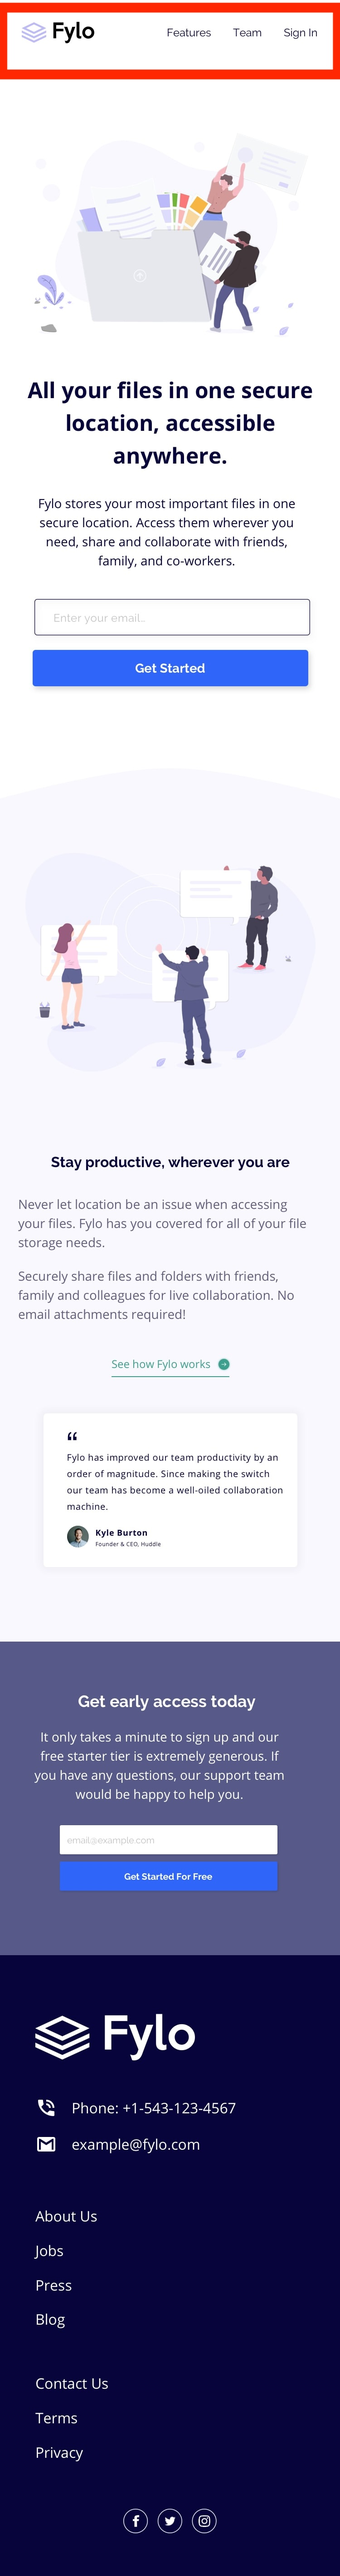
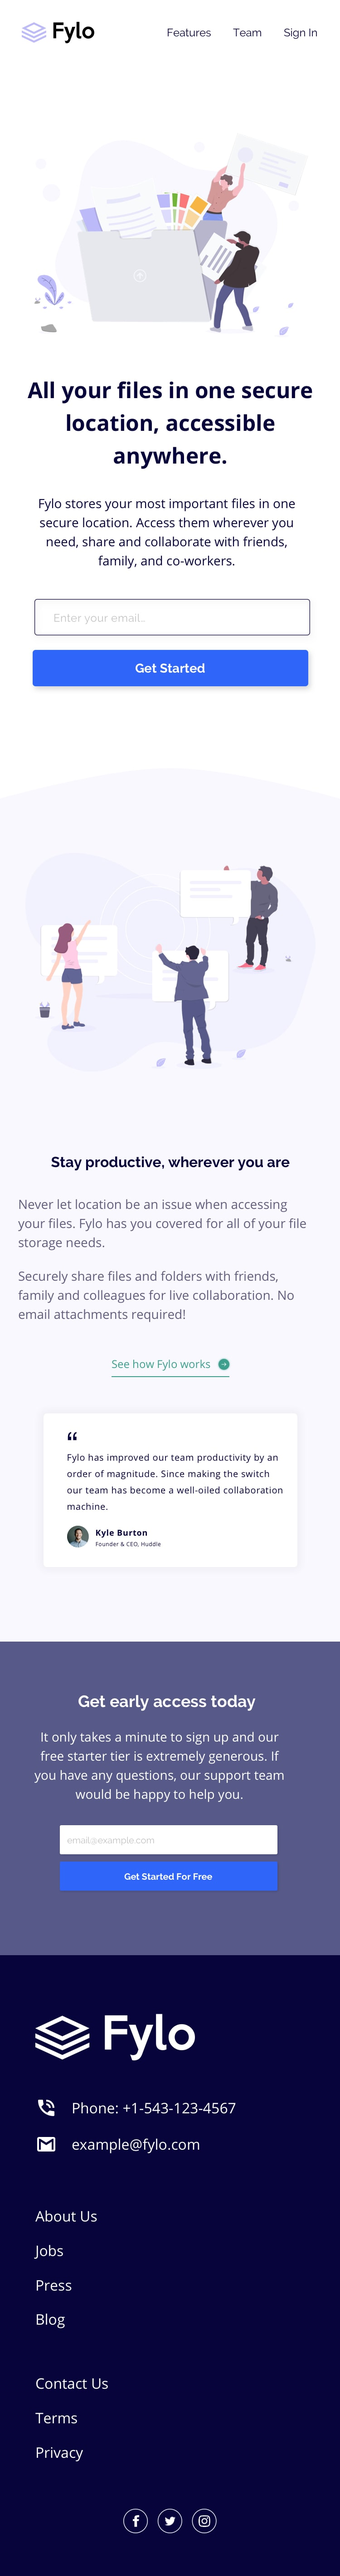
Fixed all the paddings. 90% perfect now.

Changed region(s): [[0.0, 0.0, 1.0, 0.0312]]

diff --git a/index.html b/index.html
@@ -6,10 +6,11 @@
 
   <link rel="icon" type="image/png" sizes="32x32" href="./images/favicon-32x32.png">
 
-  <link rel="stylesheet" href="style.css">
 
   <link rel="stylesheet" href="https://cdn.jsdelivr.net/npm/bootstrap@5.3.3/dist/css/bootstrap.min.css
   ">
+    <link rel="stylesheet" href="style.css">
+
 
   <!--Google fonts-->
   <link rel="preconnect" href="https://fonts.googleapis.com">
@@ -22,7 +23,7 @@
 <body>
 
 <!--Top menu-->
-<nav class="navbar navbar-expand bg-body-tertiary py-0">
+<nav class="navbar navbar-expand bg-body-tertiary py-5">
   <div class="container-fluid justify-content-between top-menu">
     <a class="navbar-brand col-3" href="#"><img src="./images/logo.svg" class="img-fluid"></a>
       <ul class="navbar-nav ms-auto mb-2 mb-lg-0">
@@ -42,12 +43,11 @@
 
 <main>
   <!--First image-->
-  <div class="container mt-5">
+  <div class="container my-5">
     <img src="./images/illustration-1.svg" class="img-fluid" alt="...">
   </div>
  
-
-  <!--For the first header-->
+  <!--First header: "All your files in one secure..."-->
   <section class="first-header">
     <div>All your files in one secure location, accessible anywhere.</div>
 
@@ -62,16 +62,16 @@
   <!--1st Get Started Form-->
   <form class="d-flex justify-content-center flex-wrap">
     <div class="mb-3 w-75">
-      <input type="email" class="form-control" id="exampleInputEmail1" aria-describedby="emailHelp" placeholder="Enter your email...">
+      <input type="email" class="form-control p-3 form-border" id="exampleInputEmail1" aria-describedby="emailHelp" placeholder="Enter your email...">
     </div>
 
-    <button type="submit" class="btn btn-primary px-5 w-75 mb-5">Get Started</button>
+    <button type="submit" class="btn btn-primary px-5 w-75 mb-5 p-2">Get Started</button>
   </form>
 
   <!--For the curved top background-->
   <section>
   <div class="container-fluid p-0">
-    <img src="./images/bg-curve-mobile.svg" class="img-fluid w-100" alt="...">
+    <img src="./images/bg-curve-mobile.svg" class="img-fluid w-100 mt-5" alt="...">
   </div>
   </section>
 
@@ -114,16 +114,16 @@
     </div>
   </section>
 
-  <!--Another second header but different color-->
+  <!--Second header: "Get early access today..."-->
   <section>
-    <div class="second-header background-color-purple font-color-white">
+    <div class="second-header background-color-purple font-color-white pt-5">
       Get early access today
     </div>
   </section>
 
-  <!--Another main text but different color.-->
+  <!--Main text: "It only takes a minute..."-->
   <section>
-    <div class="main-text background-color-purple font-color-white">
+    <div class="main-text background-color-purple font-color-white pt-3">
       It only takes a minute to sign up and our free starter tier is extremely generous. If you have any questions, our support team would be happy to help you.
       </div>
   </section>
@@ -134,27 +134,27 @@
       <input type="email" class="form-control" id="exampleInputEmail1" aria-describedby="emailHelp" placeholder="Enter your email...">
     </div>
 
+    <!--todo add another div for purple color to make the div bigger-->
     <button type="submit" class="btn btn-primary px-5 w-75 mb-5">Get Started For Free</button>
   </form>
 </main>
 
-<!--Logo at the footer section-->
-<section class="background-color-dark-blue">
-  <img src="./images/logo white.svg" class="img-fluid">
-</section>
 
 <!--Email and phone section-->
-<section>
+  <!--Logo at the footer section-->
+  <div class="background-color-dark-blue"><img src="./images/logo white.svg" class="img-fluid background-color-dark-blue mt-5 ms-5"></div>
+
+  <!--Phone section-->
   <div class="d-flex flex-row mb-0 main-text font-color-white background-color-dark-blue pb-0">
-    <div class="phone-icon"><img src="./images/icon-phone.svg"></div>
+    <div class="phone-icon pe-4"><img src="./images/icon-phone.svg"></div>
     <div>+1-543-123-4567</div>
   </div>
 
+  <!--Email section-->
   <div class="d-flex flex-row mb-0 main-text font-color-white background-color-dark-blue pb-0">
-    <div><img src="./images/icon-email.svg"></div>
+    <div class="email-icon pe-4"><img src="./images/icon-email.svg"></div>
     <div> example@fylo.com</div>
   </div>
-</section>
 
 <!--Bottom menu-->
 <nav class="bottom-menu">

diff --git a/style.css b/style.css
@@ -34,6 +34,11 @@ html {
   height: auto;
 }
 
+.email-icon {
+  max-width: 100%;
+  height: auto;
+}
+
 .how-fylo-works {
   background-color: hsl(240, 75%, 98%);
 }
@@ -92,6 +97,10 @@ html {
 
 .font-size-small {
   font-size:0.7rem;
+}
+
+.form-border{
+  border: 1px solid black;
 }
 
 
